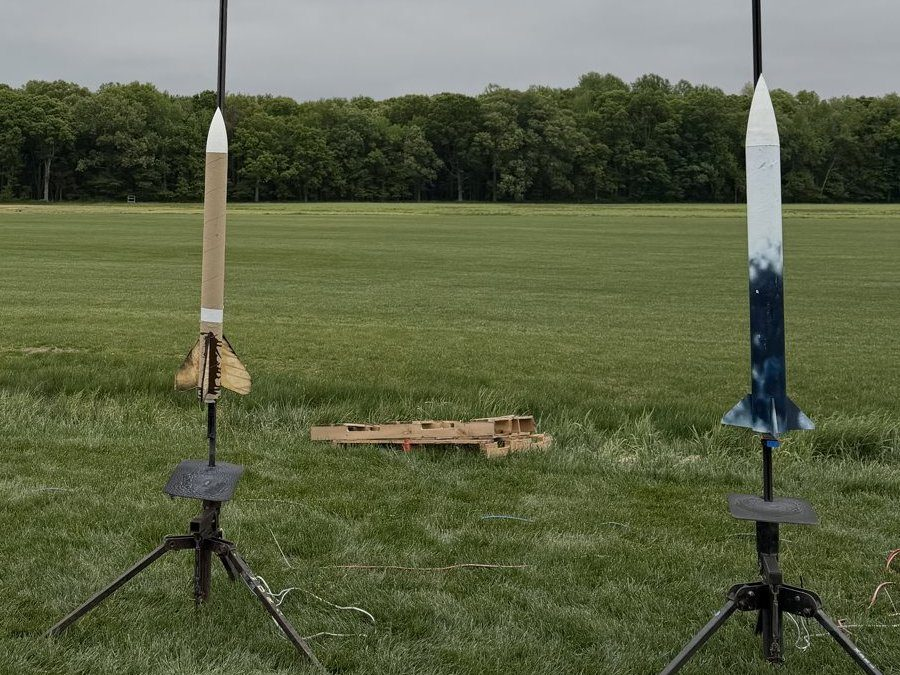
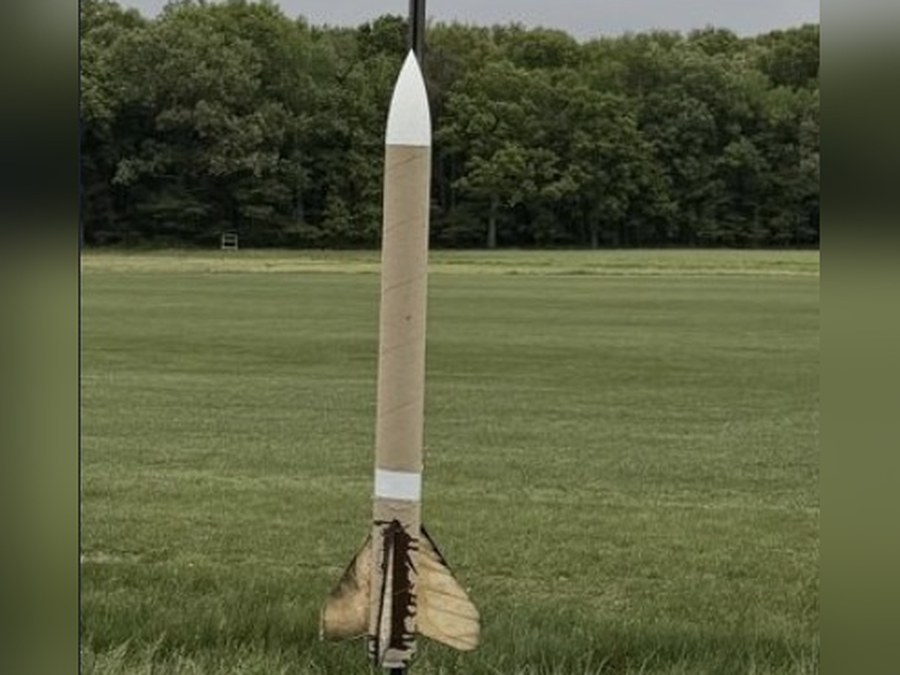
Add files via upload

diff --git a/projects.js b/projects.js
@@ -105,8 +105,8 @@ window.PROJECTS = [
     tags: ["Rocketry", "CAD", "Fabrication"],
     dates: "Certified Jan 2026",
     summary: "Designed, built, and launched a custom H-class rocket to earn Tripoli Level 1 high-power rocketry certification.",
-    cover: "l1/centering-rings.jpg",
-    coverAlt: "Laser-cut centering rings and motor mount assembly for the Level 1 rocket",
+    cover: "l1/cover.jpg",
+    coverAlt: "Completed Level 1 rocket standing upright",
     role: "Designer & Builder",
     org: "Penn High Power Rocketry · Tripoli Rocketry Association",
     timeline: "Certified January 2026",

diff --git a/index.html b/index.html
@@ -145,7 +145,7 @@
     <button type="button" class="lb-btn lb-next" aria-label="Next photo">&#8250;</button>
   </div>
 
-  <script src="projects.js?v=9"></script>
+  <script src="projects.js?v=10"></script>
   <script src="script.js?v=9"></script>
 </body>
 </html>
